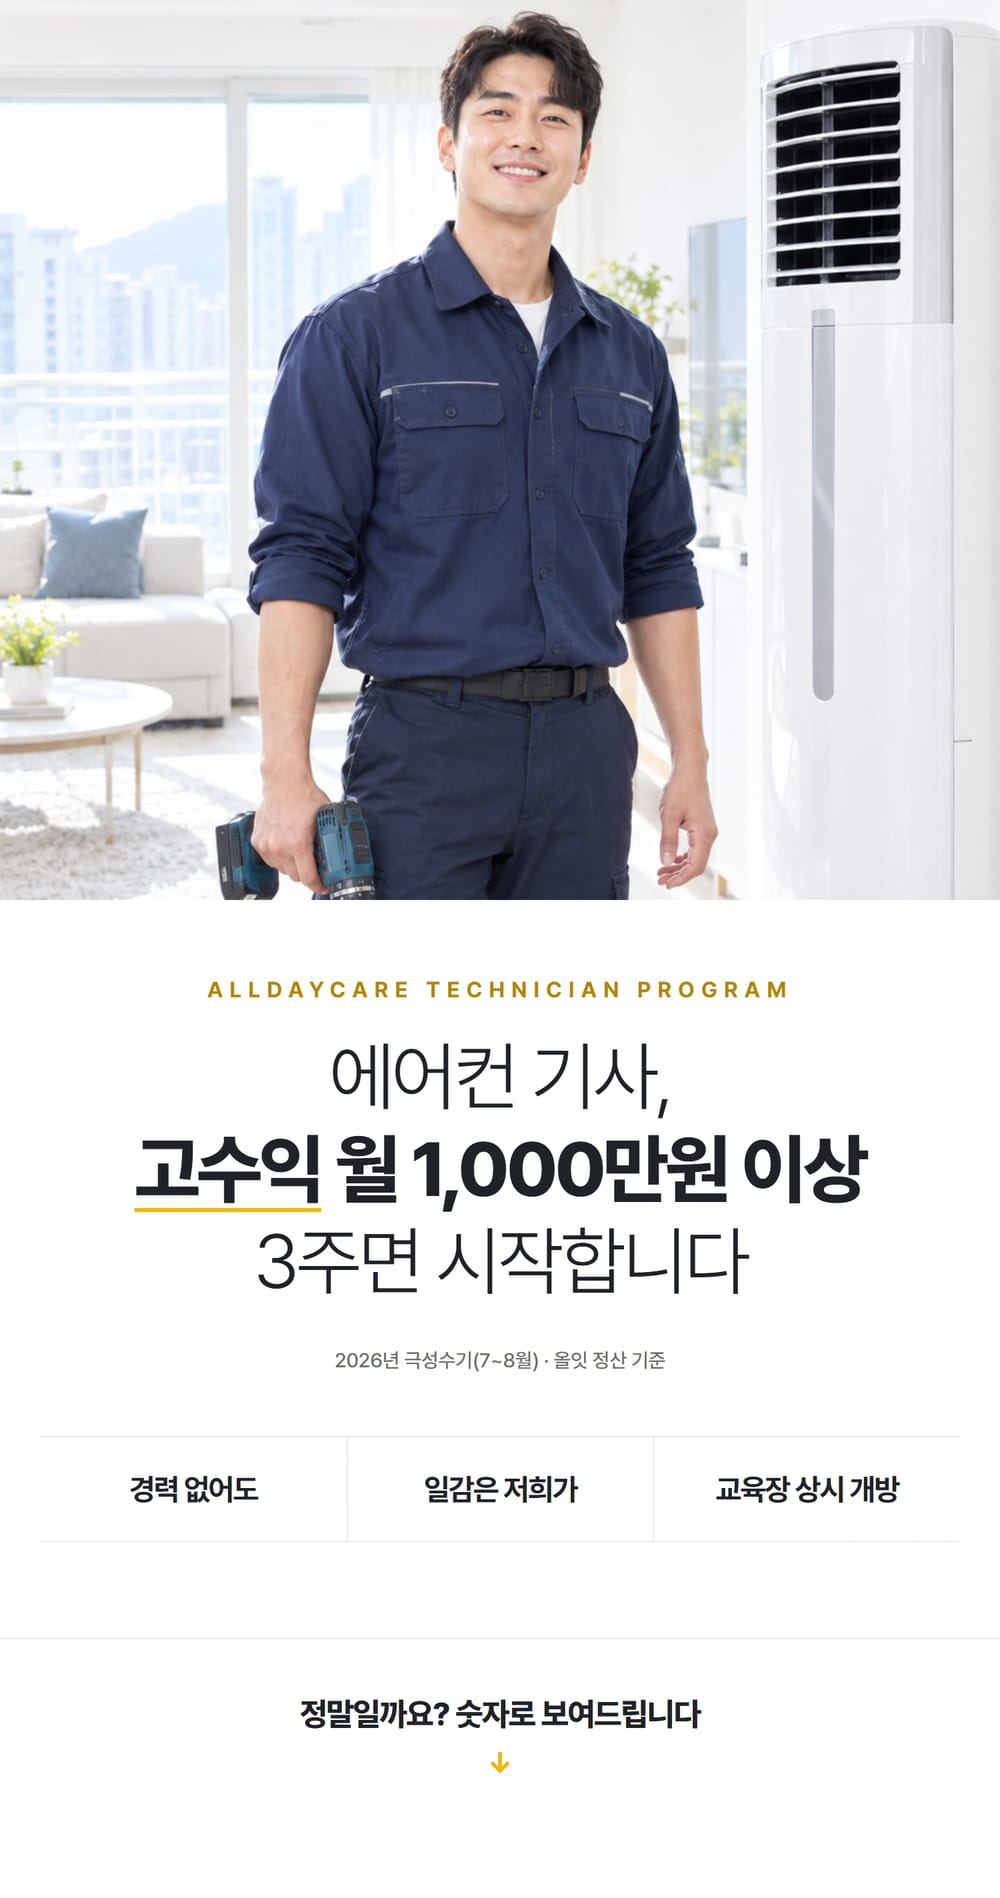
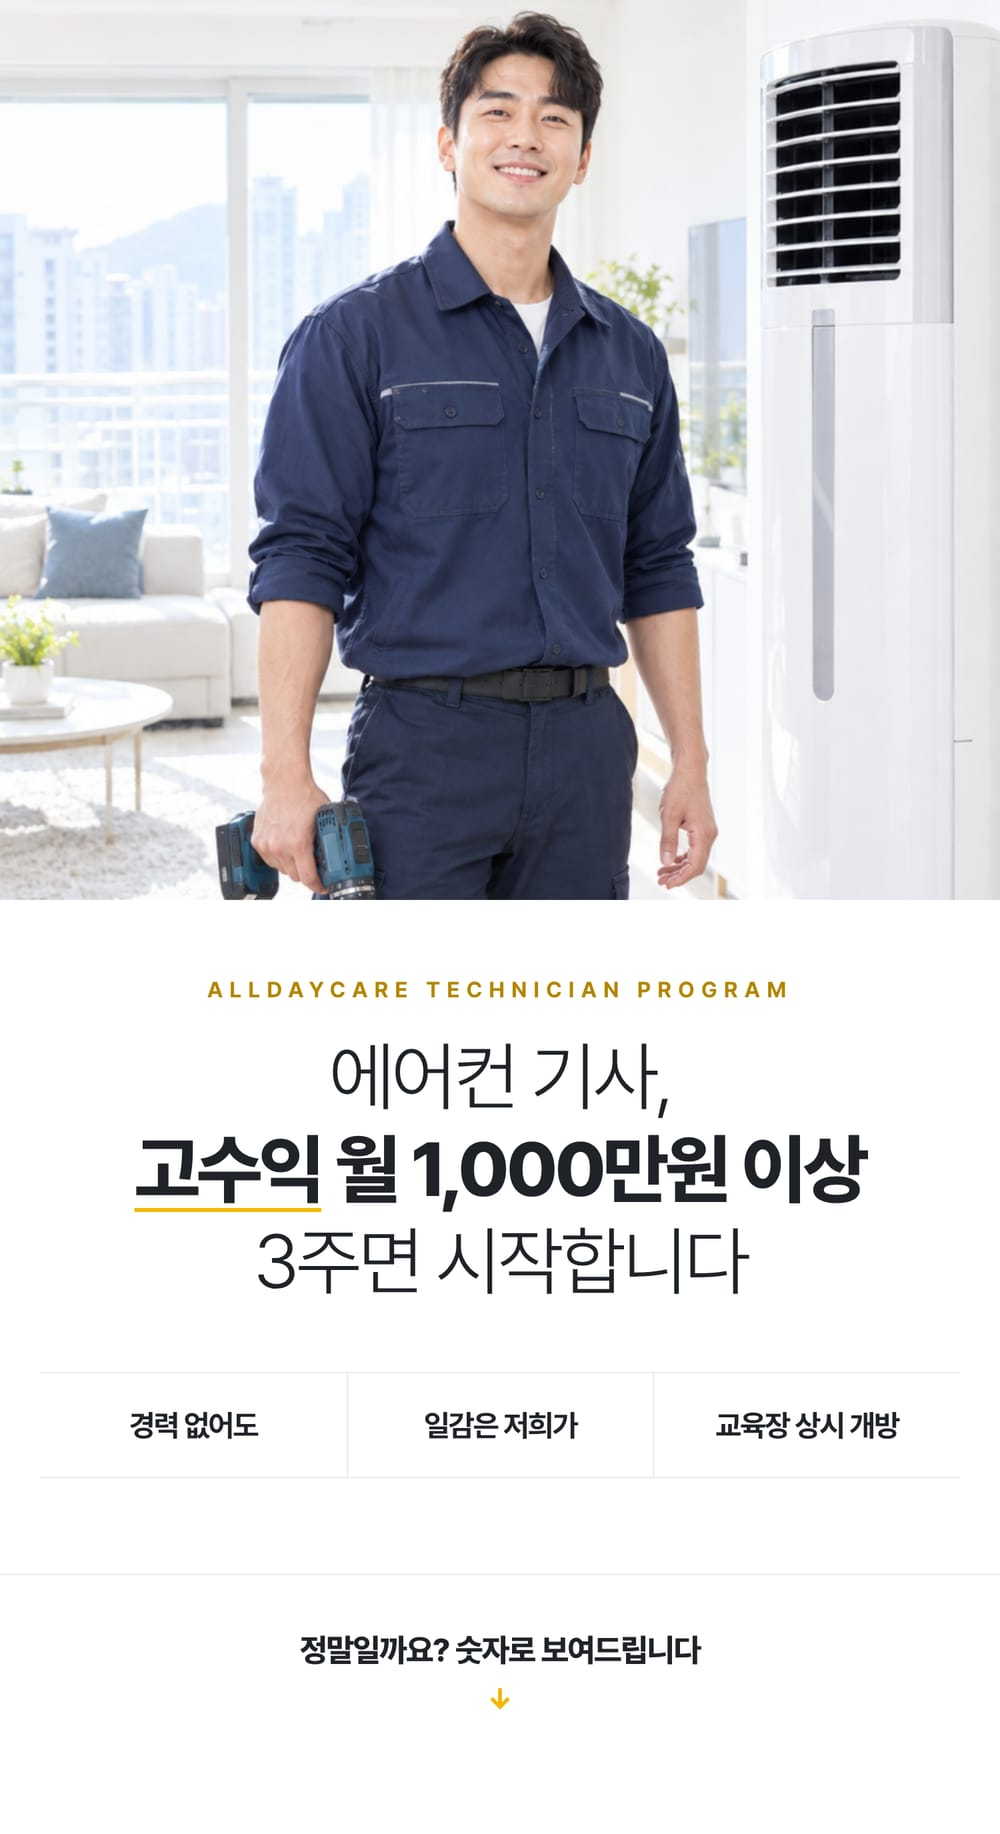
fix: 기사 양성 과정 히어로에서 '극성수기 · 올잇 정산 기준' 줄 삭제
s1 근거 줄 삭제 후 s1.jpg 다시 빌드, academy.html 크기·대체 텍스트 갱신, preview_all.jpg 재생성.
s2 막대그래프 아래 근거 줄은 유지.

Claude-Session: https://claude.ai/code/session_01Gw9VhbcxAsjoqeKUeC2WtC

diff --git a/public/academy.html b/public/academy.html
@@ -123,7 +123,7 @@ footer b{color:#4A5263}
 </header>
 
 <!-- 이미지 파일: public/img/academy/s1.jpg ~ s13.jpg (+ 교육장 투어 사진 img/academy/tour/) -->
-<div class="sec" data-img="img/academy/s1.jpg" data-w="1000" data-h="1898" data-alt="에어컨 기사, 고수익 월 1,000만원 이상, 3주면 시작합니다. 2026년 극성수기(7~8월), 올잇 정산 기준" data-label="S1 히어로"></div>
+<div class="sec" data-img="img/academy/s1.jpg" data-w="1000" data-h="1834" data-alt="에어컨 기사, 고수익 월 1,000만원 이상, 3주면 시작합니다" data-label="S1 히어로"></div>
 <a class="tel-band" href="tel:18662003">
   <span class="ico"><i></i><svg width="26" height="26" viewBox="0 0 24 24" fill="#1F2328"><path d="M6.6 10.8a15.1 15.1 0 0 0 6.6 6.6l2.2-2.2a1 1 0 0 1 1-.25 11.4 11.4 0 0 0 3.6.57 1 1 0 0 1 1 1V20a1 1 0 0 1-1 1A17 17 0 0 1 3 4a1 1 0 0 1 1-1h3.5a1 1 0 0 1 1 1c0 1.25.2 2.45.57 3.57a1 1 0 0 1-.25 1z"/></svg></span>
   <span><small>과정 상담 · 지금 누르면 바로 연결</small><b>1866-2003</b></span>

diff --git a/design/academy/sections/s1.html b/design/academy/sections/s1.html
@@ -18,7 +18,6 @@
   <div class="head">
     <p class="eyebrow">ALLDAYCARE TECHNICIAN PROGRAM</p>
     <h1 class="title"><span class="l">에어컨 기사,</span><br><span class="uline">고수익</span> 월 1,000만원 이상<br><span class="l">3주면 시작합니다</span></h1>
-    <p class="basis">2026년 극성수기(7~8월) · 올잇 정산 기준</p>
   </div>
   <div class="cols"><div>경력 없어도</div><div>일감은 저희가</div><div>교육장 상시 개방</div></div>
   <div class="next"><p>정말일까요? 숫자로 보여드립니다</p><i>↓</i></div>
